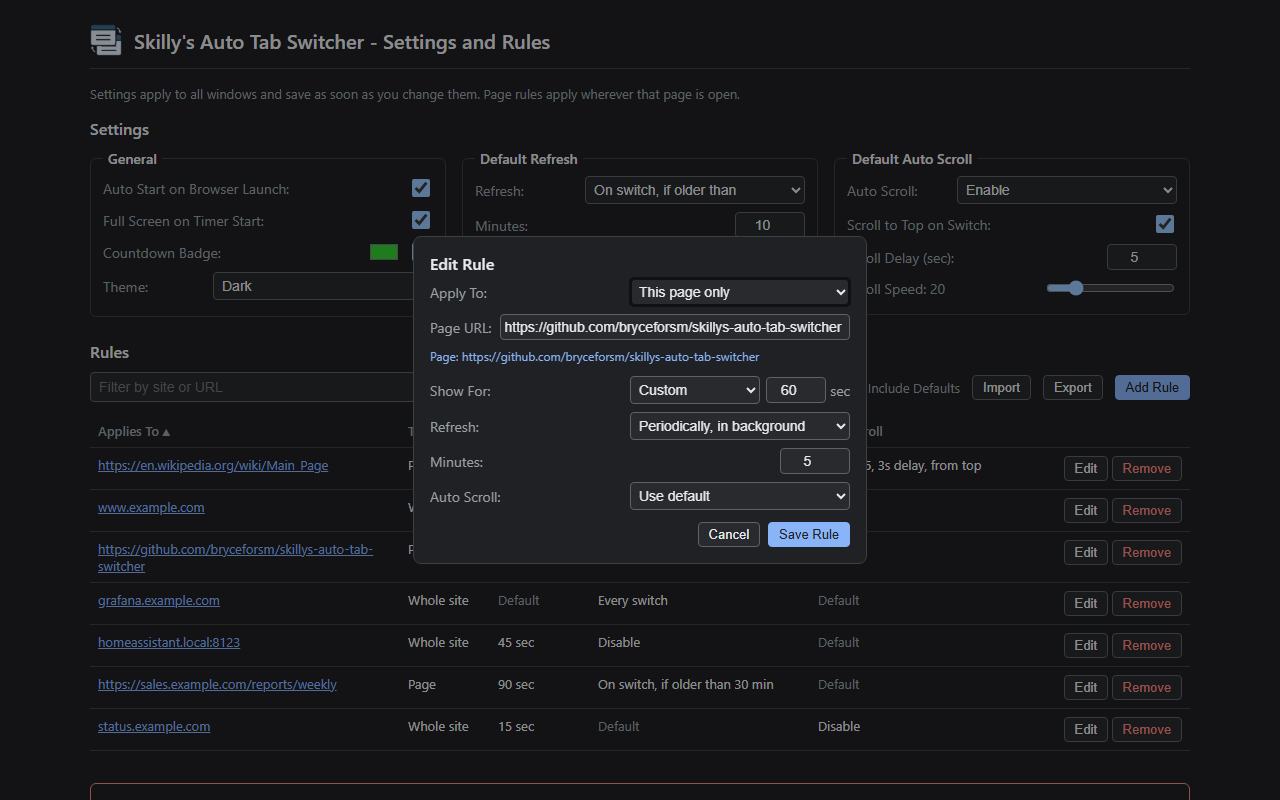
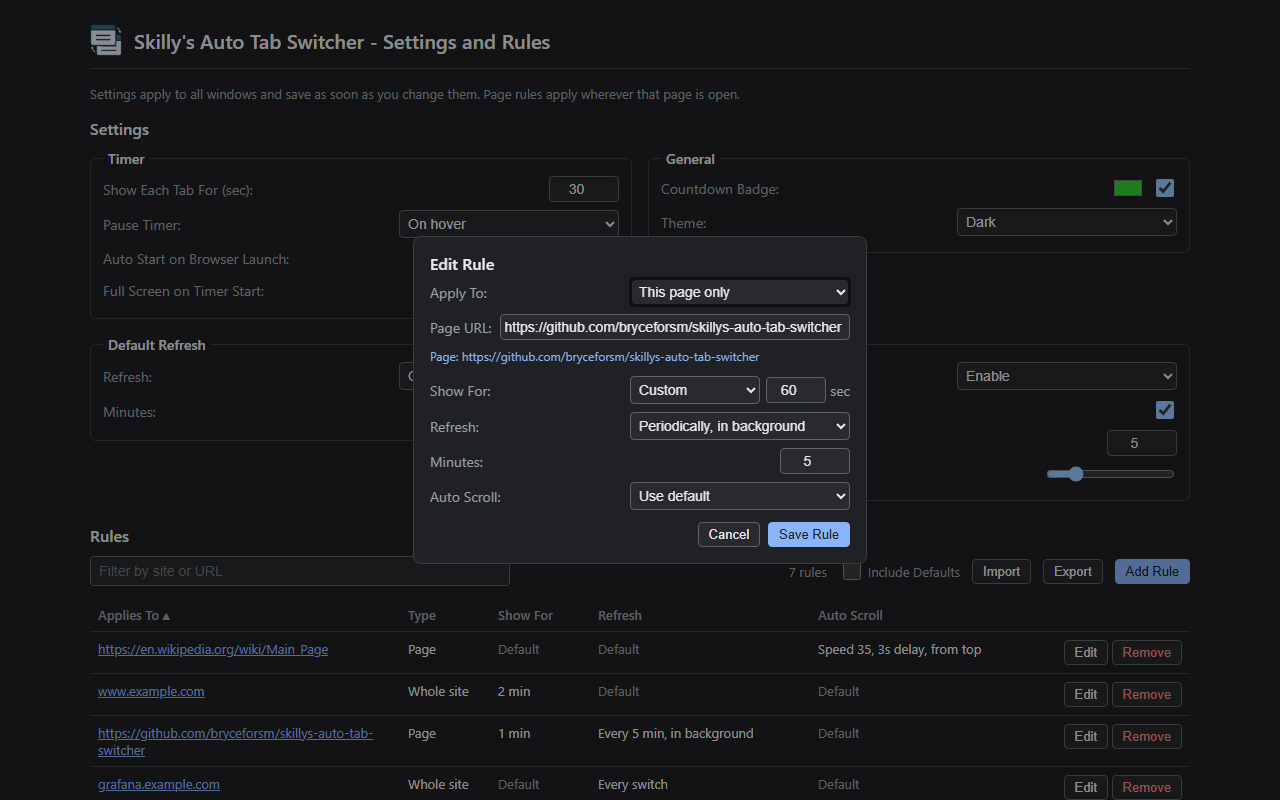
Enhance settings UI and logic for timer functionality; update labels for clarity, add pause timer options, and improve general settings structure.

diff --git a/TabSwitcherExtension/rules.html b/TabSwitcherExtension/rules.html
@@ -48,7 +48,7 @@
         }
         .settings {
             display: grid;
-            grid-template-columns: repeat(3, minmax(0, 1fr));
+            grid-template-columns: repeat(2, minmax(0, 1fr));
             gap: 16px;
             align-items: start;
         }
@@ -356,7 +356,19 @@
         <h2 class="section">Settings</h2>
         <section class="settings">
             <fieldset>
-                <legend>General</legend>
+                <legend>Timer</legend>
+                <div class="control-group" title="How many seconds each tab stays on screen before switching to the next one.">
+                    <label for="interval">Show Each Tab For (sec):</label>
+                    <input type="number" id="interval" min="5" max="86400" value="30">
+                </div>
+                <div class="control-group" title="Choose how to pause the timer: Disable (never pause), On activity (pause when mouse/keyboard used), or On hover (pause when mouse is over the page).">
+                    <label for="pauseMode">Pause Timer:</label>
+                    <select id="pauseMode">
+                        <option value="disable">Disable</option>
+                        <option value="activity">On activity</option>
+                        <option value="hover">On hover</option>
+                    </select>
+                </div>
                 <div class="control-group" title="Automatically start the timer when the browser opens or a new window is created.">
                     <label for="autoStart">Auto Start on Browser Launch:</label>
                     <input type="checkbox" id="autoStart">
@@ -365,6 +377,9 @@
                     <label for="fullscreenOnStart">Full Screen on Timer Start:</label>
                     <input type="checkbox" id="fullscreenOnStart">
                 </div>
+            </fieldset>
+            <fieldset>
+                <legend>General</legend>
                 <div class="control-group" title="Show the countdown on the extension icon, in the color of your choice.">
                     <label for="badgeVisible">Countdown Badge:</label>
                     <span class="inline">
@@ -388,7 +403,7 @@
                     <select id="defaultMode"></select>
                 </div>
                 <div id="defaultMinutesWrap" class="control-group" title="Age limit or refresh period for the default mode, in minutes.">
-                    <label for="defaultMinutes">Minutes:</label>
+                    <label for="defaultMinutes" id="defaultMinutesLabel">If Older Than (min):</label>
                     <input type="number" id="defaultMinutes" min="1" max="1440" value="5">
                 </div>
             </fieldset>
@@ -490,7 +505,7 @@
                 </select>
             </div>
             <div id="editMinutesWrap" class="control-group">
-                <label for="editMinutes">Minutes:</label>
+                <label for="editMinutes" id="editMinutesLabel">If Older Than (min):</label>
                 <input type="number" id="editMinutes" min="1" max="1440" value="5">
             </div>
             <div class="control-group">

diff --git a/TabSwitcherExtension/rules.js b/TabSwitcherExtension/rules.js
@@ -1,6 +1,6 @@
 const $ = (id) => document.getElementById(id);
 const MINUTE_MODES = ['stale', 'background'];
-const GENERAL_FIELDS = ['autoStart', 'fullscreenOnStart', 'badgeVisible', 'badgeColor', 'theme',
+const GENERAL_FIELDS = ['interval', 'pauseMode', 'autoStart', 'fullscreenOnStart', 'badgeVisible', 'badgeColor', 'theme',
     'defaultMode', 'defaultMinutes', 'autoScroll', 'scrollToTop', 'scrollDelay', 'scrollSpeed'];
 
 let settings = normalizeSettings({});
@@ -69,6 +69,8 @@ function setField(id, prop, value) {
 }
 
 function fillGeneral() {
+    setField('interval', 'value', settings.switchInterval);
+    setField('pauseMode', 'value', settings.pauseMode);
     setField('autoStart', 'checked', settings.autoStart);
     setField('fullscreenOnStart', 'checked', settings.fullscreenOnStart);
     setField('badgeVisible', 'checked', settings.badgeVisible);
@@ -86,12 +88,15 @@ function fillGeneral() {
 
 function updateGeneralVisibility() {
     $('defaultMinutesWrap').hidden = !MINUTE_MODES.includes($('defaultMode').value);
+    $('defaultMinutesLabel').textContent = refreshMinutesLabel($('defaultMode').value);
     $('defaultScrollOptions').hidden = $('autoScroll').value !== 'on';
 }
 
 async function saveGeneral() {
     updateGeneralVisibility();
     await chrome.storage.local.set({
+        switchInterval: clampInt($('interval').value, 5, 86400, 30),
+        pauseMode: $('pauseMode').value,
         autoStart: $('autoStart').checked,
         fullscreenOnStart: $('fullscreenOnStart').checked,
         badgeVisible: $('badgeVisible').checked,
@@ -309,6 +314,7 @@ function validateUrl() {
 function updateEditorVisibility() {
     $('editRefresh').setCustomValidity('');
     $('editMinutesWrap').hidden = !MINUTE_MODES.includes($('editRefresh').value);
+    $('editMinutesLabel').textContent = refreshMinutesLabel($('editRefresh').value);
     $('editDisplayWrap').hidden = $('editDisplay').value !== 'custom';
     $('editScrollOptions').hidden = $('editScroll').value !== 'on';
 }

diff --git a/TabSwitcherExtension/shared.js b/TabSwitcherExtension/shared.js
@@ -144,6 +144,11 @@ function describeDisplay(seconds) {
     return seconds >= 60 && seconds % 60 === 0 ? `${seconds / 60} min` : `${seconds} sec`;
 }
 
+// Label for the minutes box under a Refresh dropdown, which only shows for these two modes.
+function refreshMinutesLabel(mode) {
+    return mode === 'background' ? 'Refresh Every (min):' : 'If Older Than (min):';
+}
+
 function describeRefresh(rule) {
     switch (rule.mode) {
         case 'stale': return `On switch, if older than ${rule.minutes} min`;

diff --git a/TabSwitcherExtension/popup.html b/TabSwitcherExtension/popup.html
@@ -333,7 +333,7 @@
                 <select id="ruleMode"></select>
             </div>
             <div id="ruleMinutesWrap" class="control-group" title="Age limit or refresh period for this rule, in minutes.">
-                <label for="ruleMinutes">Minutes:</label>
+                <label for="ruleMinutes" id="ruleMinutesLabel">If Older Than (min):</label>
                 <input type="number" id="ruleMinutes" min="1" max="1440" value="5">
             </div>
             </div>

diff --git a/TabSwitcherExtension/popup.js b/TabSwitcherExtension/popup.js
@@ -176,6 +176,7 @@ function updateVisibility() {
     $('ruleFields').hidden = !customizing;
     $('customize').hidden = customizing;
     $('ruleMinutesWrap').hidden = !MINUTE_MODES.includes($('ruleMode').value);
+    $('ruleMinutesLabel').textContent = refreshMinutesLabel($('ruleMode').value);
     $('ruleDisplayWrap').hidden = $('ruleDisplayMode').value !== 'custom';
     $('ruleScrollOptions').hidden = $('ruleScrollMode').value !== 'on';
 }

diff --git a/.github/copilot-instructions.md b/.github/copilot-instructions.md
@@ -9,7 +9,7 @@ All extension code lives in `TabSwitcherExtension/`:
 - `shared.js` is loaded by the service worker (`importScripts`) and by the popup and rules pages (`<script>`). It owns `DEFAULTS`, `normalizeSettings()` and rule lookup. Anything both sides need goes here.
 - `background.js` is the service worker. It handles per-window timers, switching, refreshing and the badge. Runtime state that has to survive a worker restart goes in `chrome.storage.session`.
 - `popup.html` / `popup.js` hold only the day-to-day controls: Start/Stop, **Show Each Tab For**, **Pause Timer** and the **Current Tab** rule editor (collapsed behind **Customize** when the page has no rule). Edits are kept in memory until **Save Settings**.
-- `rules.html` / `rules.js` is the options page (**More Settings and Rules**). It holds the set-and-forget settings (auto start, full screen, badge, theme, Default Refresh, Default Auto Scroll) and lists, adds and edits rules. Its writes are immediate (read-modify-write against storage).
+- `rules.html` / `rules.js` is the options page (**More Settings and Rules**). It holds the set-and-forget settings (Show Each Tab For and Pause Timer again, auto start, full screen, badge, theme, Default Refresh, Default Auto Scroll) and lists, adds and edits rules. Its writes are immediate (read-modify-write against storage).
 - `content_scroll.js` handles auto scroll and hover detection only. It must not read or change page content.
 
 Settings live in `chrome.storage.local`, and every reader goes through `normalizeSettings()`. To add a setting, update `DEFAULTS`, `normalizeSettings()` and the page that edits it (the popup's `collectSettings()` or the options page's `saveGeneral()`/`fillGeneral()`). Keep the popup small: new set-and-forget settings belong on the options page.

diff --git a/README.md b/README.md
@@ -37,9 +37,11 @@ This extension automatically switches between your open tabs at an interval you 
 
 2.  **More Settings and Rules:**
     - Click **More Settings and Rules** in the popup, or right-click the extension icon and choose **Options**. Changes on this page save as soon as you make them.
-    - **General:**
+    - **Timer:**
+        - **Show Each Tab For** and **Pause Timer** are the same settings as in the popup.
         - **Auto Start on Browser Launch** starts the timer when the browser opens (also applies to new windows).
         - **Full Screen on Timer Start** puts the window in full screen when its timer starts. Stopping the timer restores the previous window size. Press **F11** to leave full screen at any time (the extension icon is hidden while in full screen).
+    - **General:**
         - **Countdown Badge** shows the seconds until the next switch on the extension icon, in the color you pick.
         - **Theme** chooses **System** (default, follows your OS light or dark setting), **Light**, or **Dark**.
     - **Default Refresh** sets how pages without their own rule are refreshed:
